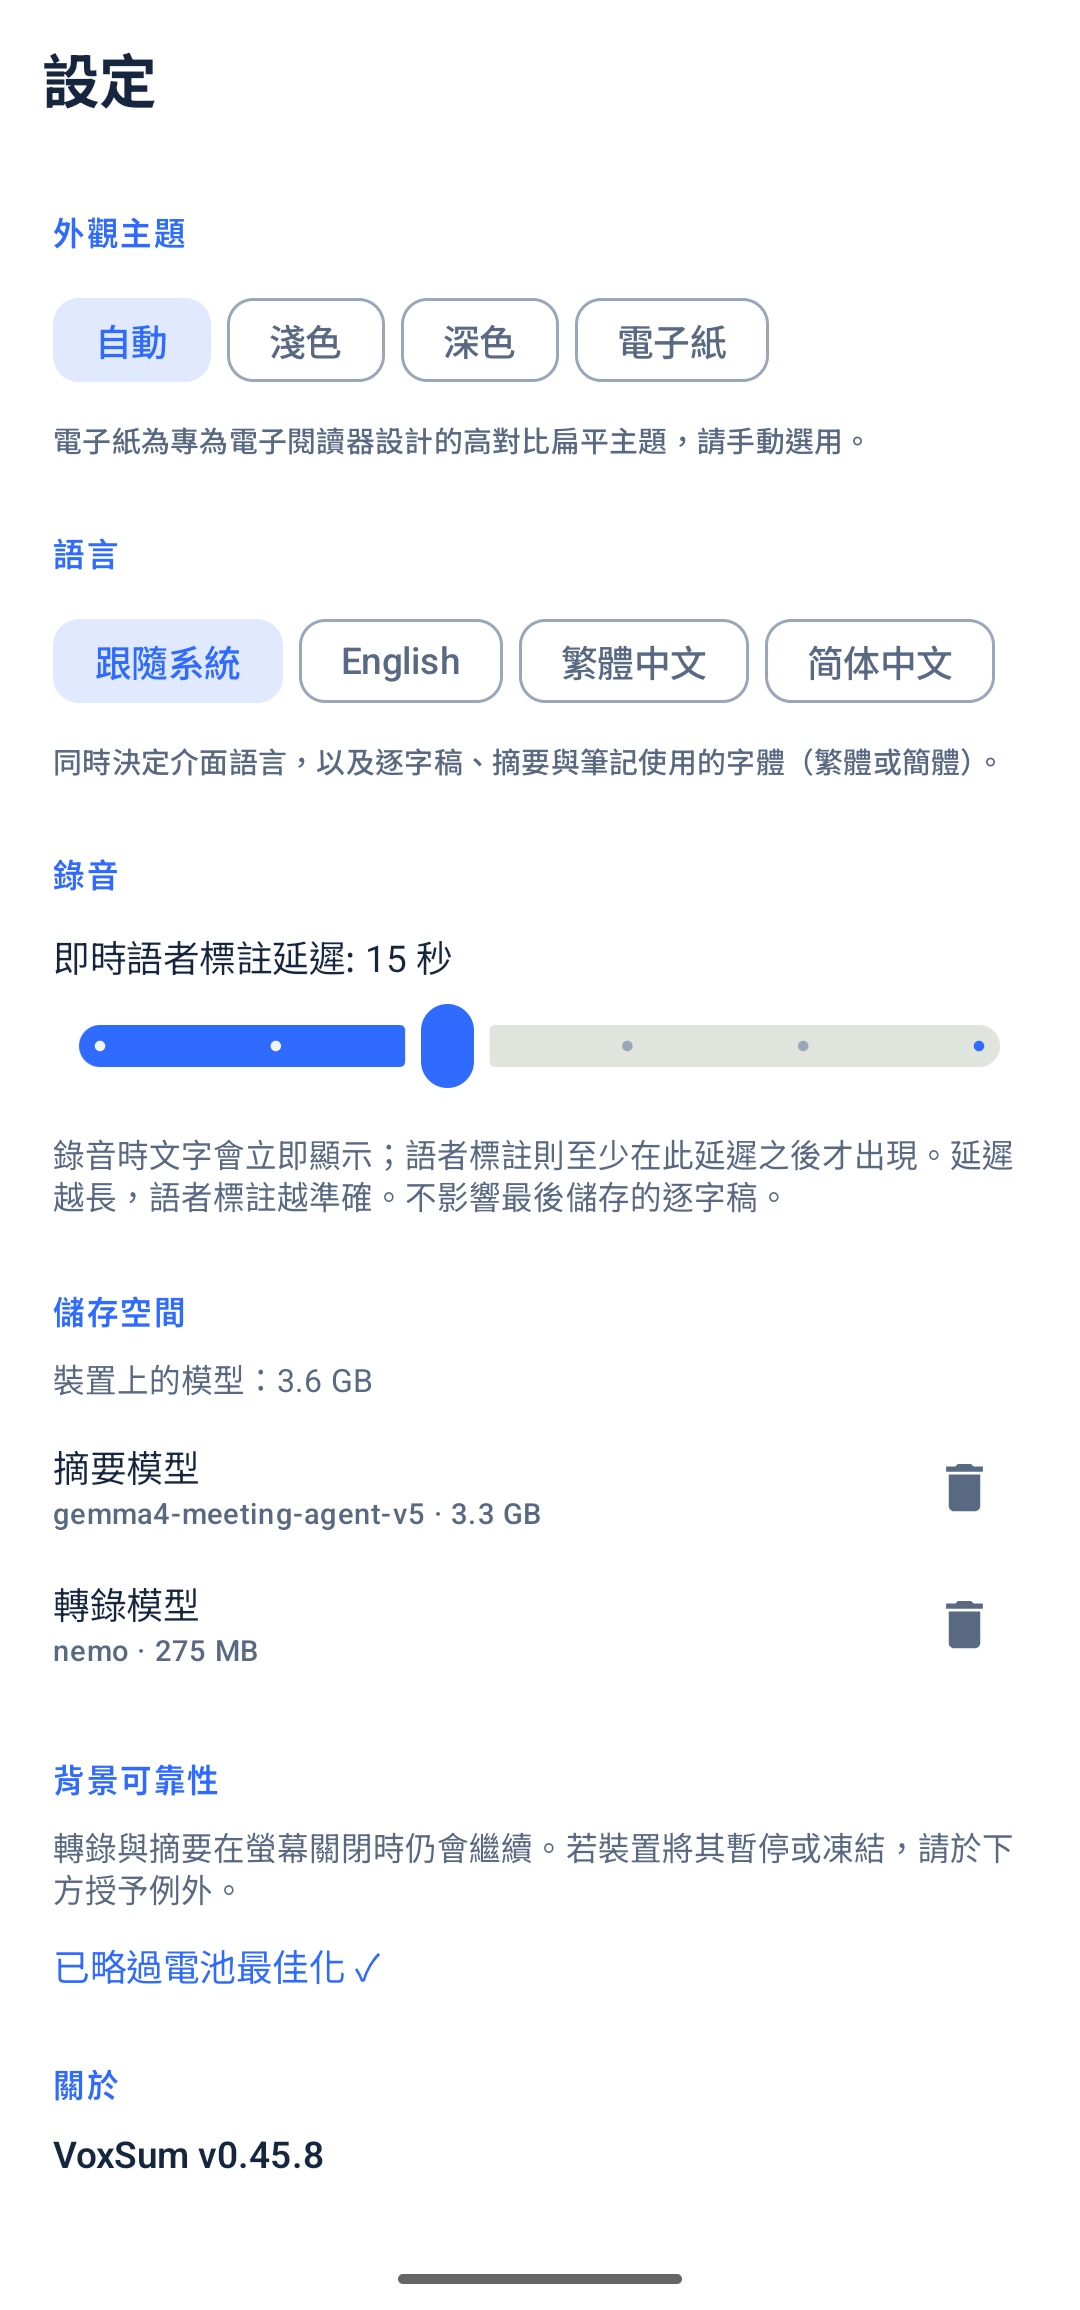
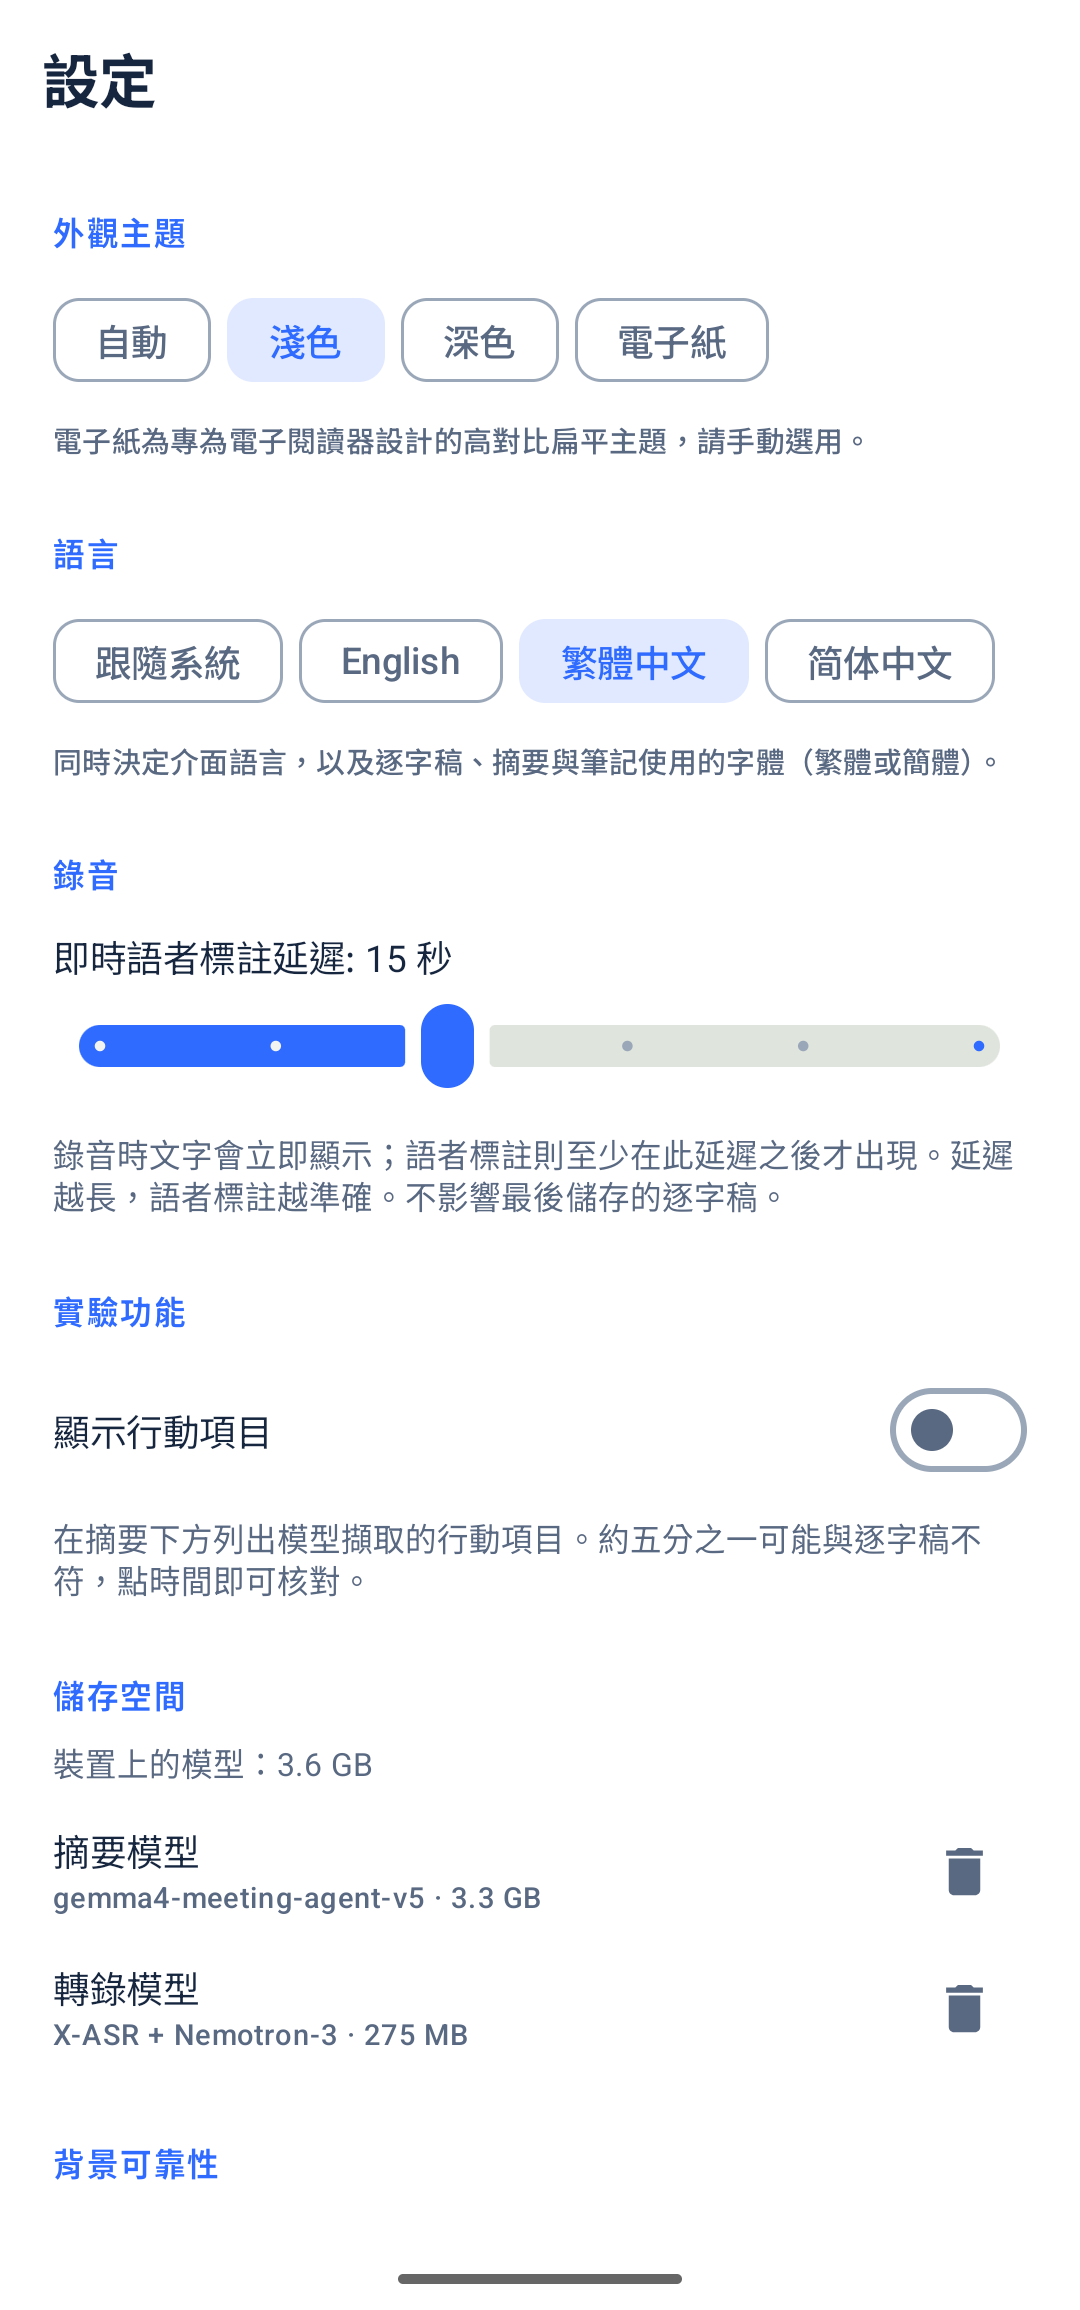
fix: a session without a generated title yet shows its provisional name in the top bar instead of 'VoxSum'; reshoot the settings screenshot (language, experimental section)
Claude-Session: https://claude.ai/code/session_01NQVZs7ju6UZUEeaeEiKgfe

diff --git a/app/src/main/java/studio/voxsum/MainActivity.kt b/app/src/main/java/studio/voxsum/MainActivity.kt
@@ -2201,11 +2201,16 @@ private fun TranscribeScreen(
         modifier = Modifier.fillMaxSize().background(pal.Slate900Grad),
         containerColor = Color.Transparent,
         topBar = {
+            // No generated title yet (just recorded / still processing): show the entry's provisional
+            // name, as the library row does, rather than the app name.
+            val entryTitle = remember(libraryDir, recentsVersion) {
+                libraryDir?.let { d -> SessionLibrary.byId(context, d.name) }?.let { it.title ?: SessionLibrary.defaultTitle(it.createdAt) }
+            }
             SessionTopBar(
                 cover = null,   // no per-session art (the generated identicon was removed)
                 // The title lives in the top bar on every tab (tap it to edit); the two-pane overview
                 // carries its own title card, so the bar stays blank there.
-                title = if (twoPane && !title.isNullOrBlank()) "" else title,
+                title = if (twoPane && !title.isNullOrBlank()) "" else title ?: entryTitle,
                 onTitleClick = if (!twoPane && !title.isNullOrBlank() && !running) ({ sessTab = 0; editingTitle = true }) else null,
                 status = status,
                 running = running,
